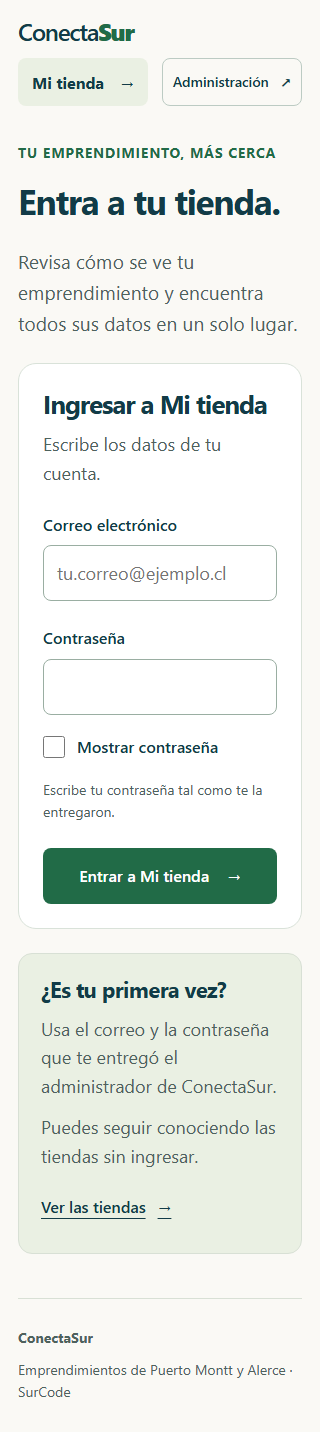
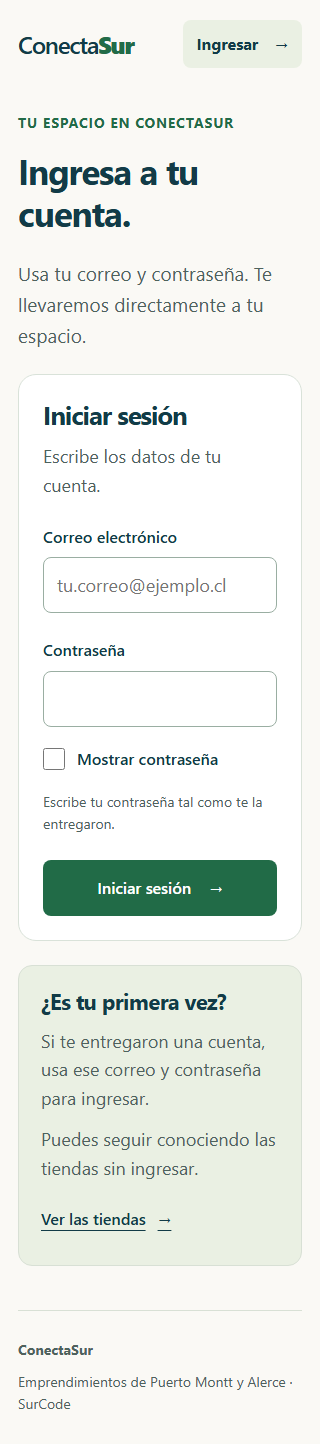
Acceso único

diff --git a/web/src/entrepreneur-access.js b/web/src/entrepreneur-access.js
@@ -3,44 +3,45 @@ import { publicShell, shopLogo, wireShopImages, escapeHtml as escape } from './p
 function messageFor(error) {
   if (error.code === 'account_inactive') return 'Tu cuenta está desactivada o no tiene acceso. Consulta al administrador de ConectaSur.';
   if (error.code === 'shop_not_assigned') return 'Tu cuenta aún no tiene una tienda disponible. Pide al administrador que revise la asignación.';
-  if (error.code === 'entrepreneur_required') return 'Para entrar a Mi tienda necesitas una cuenta de emprendedora. Las cuentas administradoras ingresan desde Administración.';
+  if (error.code === 'entrepreneur_required') return 'Esta cuenta no tiene acceso a una tienda ni a la administración. Puedes seguir conociendo las tiendas sin ingresar.';
   if (['invalid_credentials', 'invalid_grant', 'user_not_found'].includes(error.code) || error.status === 400) return 'El correo o la contraseña no coinciden. Revísalos y vuelve a intentarlo.';
   return 'No pudimos comprobar el acceso. Revisa tu conexión y vuelve a intentarlo.';
 }
 
 // Una instancia por ruta: al salir se cancelan los observadores y se ignoran respuestas tardías.
-export function showEntrepreneurAccess(app, db, isCurrent = () => true) {
+export function showAccountAccess(app, db, isCurrent = () => true, showAdmin) {
   let stopped = false;
   let mode = 'loading';
   let busy = false;
   let checking = false;
   const events = new AbortController();
   const alive = () => !stopped && isCurrent();
-  document.title = 'Mi tienda | ConectaSur';
+  document.title = 'Ingresar | ConectaSur';
 
   function loading(text = 'Comprobando tu sesión…') {
-    app.innerHTML = publicShell(`<section class="owner-state"><p class="public-eyebrow">Mi tienda</p><p role="status">${escape(text)}</p></section>`);
+    app.innerHTML = publicShell(`<section class="owner-state"><p class="public-eyebrow">Tu cuenta en ConectaSur</p><p role="status">${escape(text)}</p></section>`);
   }
 
   function login(message = '', error = false) {
     if (!alive()) return;
     mode = 'login';
     busy = false;
+    document.title = 'Ingresar | ConectaSur';
     app.innerHTML = publicShell(`<section class="owner-access" aria-labelledby="owner-title">
-      <div class="owner-intro"><p class="public-eyebrow">Tu emprendimiento, más cerca</p><h1 id="owner-title" tabindex="-1">Entra a tu tienda.</h1>
-        <p>Revisa cómo se ve tu emprendimiento y encuentra todos sus datos en un solo lugar.</p>
+      <div class="owner-intro"><p class="public-eyebrow">Tu espacio en ConectaSur</p><h1 id="owner-title" tabindex="-1">Ingresa a tu cuenta.</h1>
+        <p>Usa tu correo y contraseña. Te llevaremos directamente a tu espacio.</p>
       </div>
-      <div class="owner-login-card"><h2>Ingresar a Mi tienda</h2><p>Escribe los datos de tu cuenta.</p>
+      <div class="owner-login-card"><h2>Iniciar sesión</h2><p>Escribe los datos de tu cuenta.</p>
         <form id="owner-login-form">
           <label for="owner-email">Correo electrónico</label><input id="owner-email" type="email" autocomplete="username" inputmode="email" autocapitalize="none" spellcheck="false" maxlength="254" required placeholder="tu.correo@ejemplo.cl">
           <label for="owner-password">Contraseña</label><input id="owner-password" type="password" autocomplete="current-password" required aria-describedby="owner-password-help">
           <label class="owner-show-password"><input id="owner-show-password" type="checkbox">Mostrar contraseña</label>
           <p id="owner-password-help" class="owner-hint">Escribe tu contraseña tal como te la entregaron.</p>
           <p id="owner-access-status" class="owner-status${error ? ' owner-error' : ''}" role="${error ? 'alert' : 'status'}">${escape(message)}</p>
-          <button class="public-primary" type="submit">Entrar a Mi tienda <span aria-hidden="true">→</span></button>
+          <button class="public-primary" type="submit">Iniciar sesión <span aria-hidden="true">→</span></button>
         </form>
       </div>
-      <aside class="owner-help"><h2>¿Es tu primera vez?</h2><p>Usa el correo y la contraseña que te entregó el administrador de ConectaSur.</p><p>Puedes seguir conociendo las tiendas sin ingresar.</p><a class="public-text-link" href="#inicio">Ver las tiendas <span aria-hidden="true">→</span></a></aside>
+      <aside class="owner-help"><h2>¿Es tu primera vez?</h2><p>Si te entregaron una cuenta, usa ese correo y contraseña para ingresar.</p><p>Puedes seguir conociendo las tiendas sin ingresar.</p><a class="public-text-link" href="#inicio">Ver las tiendas <span aria-hidden="true">→</span></a></aside>
     </section>`);
     app.querySelector('#owner-title').focus({ preventScroll: true });
     const form = app.querySelector('#owner-login-form');
@@ -65,11 +66,7 @@ export function showEntrepreneurAccess(app, db, isCurrent = () => true) {
         password.value = '';
         password.type = 'password';
         reveal.checked = false;
-        if (user.role !== 'emprendedora') {
-          await db.logout();
-          throw { code: 'entrepreneur_required' };
-        }
-        await loadHome();
+        await openAccount(user);
       } catch (error) {
         if (!alive() || !form.isConnected) return;
         status.textContent = messageFor(error);
@@ -111,6 +108,7 @@ export function showEntrepreneurAccess(app, db, isCurrent = () => true) {
   function home({ user, shop }) {
     if (!alive()) return;
     mode = 'home';
+    document.title = 'Mi tienda | ConectaSur';
     app.innerHTML = publicShell(`<section class="owner-home" aria-labelledby="owner-home-title">
       <div class="owner-topbar"><a class="public-back" href="#inicio">← Volver a las tiendas</a><button id="owner-logout" class="owner-secondary">Cerrar sesión</button></div>
       <div class="owner-welcome"><div><p class="public-eyebrow">Mi espacio en ConectaSur</p><h1 id="owner-home-title" tabindex="-1">Esta es tu tienda.</h1><p>Consulta tus datos y revisa cómo te encuentra tu comunidad.</p></div><span class="owner-session-state">Sesión iniciada</span></div>
@@ -125,6 +123,20 @@ export function showEntrepreneurAccess(app, db, isCurrent = () => true) {
     app.querySelector('#owner-home-title').focus({ preventScroll: true });
     app.querySelector('#owner-logout').addEventListener('click', logout);
     app.querySelector('#owner-refresh').addEventListener('click', () => loadHome());
+  }
+
+  async function openAccount(user) {
+    if (!alive()) return;
+    if (user.role === 'admin') {
+      mode = 'admin';
+      document.title = 'Administración | ConectaSur';
+      await showAdmin(user, logout);
+    } else if (user.role === 'emprendedora') {
+      await loadHome();
+    } else {
+      await db.logout();
+      login(messageFor({ code: 'entrepreneur_required' }), true);
+    }
   }
 
   async function loadHome() {
@@ -159,8 +171,7 @@ export function showEntrepreneurAccess(app, db, isCurrent = () => true) {
       const user = await db.currentSession();
       if (!alive()) return;
       if (!user) login();
-      else if (user.role !== 'emprendedora') login(messageFor({ code: 'entrepreneur_required' }), true);
-      else await loadHome();
+      else await openAccount(user);
     } catch (error) {
       if (!alive()) return;
       if (error.code === 'account_inactive') login(messageFor(error), true);

diff --git a/web/src/main.js b/web/src/main.js
@@ -3,7 +3,7 @@ import './style.css';
 import config from '../supabase-config.js';
 import { createDataLayer } from '../supabase-data.js';
 import { showPublicShops, showPublicShop } from './public-shops.js';
-import { showEntrepreneurAccess } from './entrepreneur-access.js';
+import { showAccountAccess } from './entrepreneur-access.js';
 
 const app = document.querySelector('#app');
 const db = createDataLayer(config);
@@ -37,69 +37,7 @@ function mostrarMensaje(texto, error = false) {
   mensaje.className = error ? 'mensaje error' : 'mensaje';
 }
 
-function mostrarLogin() {
-  app.innerHTML = `
-    <main class="login-container">
-      <section class="login-card">
-        <h1>ConectaSur</h1>
-        <p>Panel de administración</p>
-        <a class="public-return" href="#inicio">← Volver a las tiendas</a>
-
-        <form id="login-form">
-          <label for="email">Correo electrónico</label>
-          <input id="email" type="email" required
-            autocomplete="username"
-            placeholder="Correo de administrador">
-
-          <label for="password">Contraseña</label>
-          <input id="password" type="password" required
-            autocomplete="current-password"
-            placeholder="Tu contraseña">
-
-          <button type="submit">Iniciar sesión</button>
-          <p id="mensaje"></p>
-        </form>
-      </section>
-    </main>`;
-
-  document.querySelector('#login-form')
-    .addEventListener('submit', async e => {
-      e.preventDefault();
-
-      const mensaje = document.querySelector('#mensaje');
-      const boton = e.currentTarget.querySelector(
-        'button[type="submit"]'
-      );
-
-      boton.disabled = true;
-      mensaje.textContent = 'Comprobando acceso...';
-
-      try {
-        const usuario = await db.login(
-          document.querySelector('#email').value,
-          document.querySelector('#password').value
-        );
-
-        if (!mensaje.isConnected) return;
-
-        if (usuario.role !== 'admin') {
-          await db.logout();
-          mensaje.textContent =
-            'Esta cuenta no tiene permisos de administrador.';
-          return;
-        }
-
-        usuarioActual = usuario;
-        await mostrarPanel();
-      } catch (error) {
-        mensaje.textContent = error.message;
-      } finally {
-        if (boton.isConnected) boton.disabled = false;
-      }
-    });
-}
-
-async function mostrarPanel() {
+async function mostrarPanel(logout) {
   app.innerHTML = `
     <div class="dashboard">
       <aside class="sidebar">
@@ -137,14 +75,7 @@ async function mostrarPanel() {
     });
   });
 
-  document.querySelector('#logout').addEventListener(
-    'click',
-    async () => {
-      await db.logout();
-      usuarioActual = null;
-      mostrarLogin();
-    }
-  );
+  document.querySelector('#logout').addEventListener('click', logout);
 
   await abrirSeccion('inicio');
 }
@@ -1038,41 +969,31 @@ async function iniciar() {
   const isCurrent = () => version === navigationVersion;
   const route = window.location.hash;
 
-  if (route === '#mi-tienda') {
+  // Los enlaces anteriores siguen abriendo el mismo acceso; el rol viene del backend.
+  if (['#ingresar', '#mi-tienda', '#administracion'].includes(route)) {
     usuarioActual = null;
-    seccionActual = 'mi-tienda';
-    stopOwnerScreen = showEntrepreneurAccess(app, db, isCurrent);
+    seccionActual = 'cuenta';
+    stopOwnerScreen = showAccountAccess(app, db, isCurrent, async (user, logout) => {
+      if (!isCurrent()) return;
+      usuarioActual = user;
+      await mostrarPanel(async () => {
+        usuarioActual = null;
+        seccionActual = 'cuenta';
+        await logout();
+      });
+    });
     return;
   }
 
-  if (route !== '#administracion') {
-    usuarioActual = null;
-    seccionActual = 'publica';
-    if (route.startsWith('#tienda/')) {
-      let id;
-      try { id = decodeURIComponent(route.slice('#tienda/'.length)); }
-      catch { id = ''; }
-      await showPublicShop(app, db, id, isCurrent);
-    } else {
-      await showPublicShops(app, db, isCurrent);
-    }
-    return;
-  }
-
-  document.title = 'ConectaSur | Administración';
-  app.innerHTML = '<main class="login-container"><p class="login-loading" role="status">Comprobando acceso…</p></main>';
-  try {
-    const usuario = await db.currentSession();
-    if (!isCurrent()) return;
-
-    if (usuario?.role === 'admin') {
-      usuarioActual = usuario;
-      await mostrarPanel();
-    } else {
-      mostrarLogin();
-    }
-  } catch {
-    if (isCurrent()) mostrarLogin();
+  usuarioActual = null;
+  seccionActual = 'publica';
+  if (route.startsWith('#tienda/')) {
+    let id;
+    try { id = decodeURIComponent(route.slice('#tienda/'.length)); }
+    catch { id = ''; }
+    await showPublicShop(app, db, id, isCurrent);
+  } else {
+    await showPublicShops(app, db, isCurrent);
   }
 }
 

diff --git a/web/src/public-shops.js b/web/src/public-shops.js
@@ -42,8 +42,7 @@ function shell(content) {
     <header class="public-header">
       <a class="public-brand" href="#inicio" aria-label="ConectaSur, inicio">Conecta<span>Sur</span></a>
       <nav class="public-navigation" aria-label="Acceso a tu cuenta">
-        <a class="public-owner-link" href="#mi-tienda">Mi tienda <span aria-hidden="true">→</span></a>
-        <a class="public-admin" href="#administracion">Administración <span aria-hidden="true">↗</span></a>
+        <a class="public-owner-link" href="#ingresar">Ingresar <span aria-hidden="true">→</span></a>
       </nav>
     </header>
     <main id="public-content" tabindex="-1">${content}</main>

diff --git a/web/src/style.css b/web/src/style.css
@@ -367,7 +367,7 @@ button {
 @media (max-width: 650px) {
   .public-header, .public-footer, .public-directory, .public-shop-page, .public-state { width: calc(100% - 36px); }
   .public-header { min-height: 88px; gap: 8px; flex-wrap: wrap; padding-block: 12px; }
-  .public-navigation { justify-content: space-between; width: 100%; gap: 8px; }
+  .public-navigation { gap: 8px; }
   .public-owner-link { font-size: 1rem; padding-inline: 14px; }
   .public-brand { font-size: 1.5rem; }
   .public-admin { padding: 8px 10px; font-size: .875rem; }

diff --git a/docs/entrega-4/acceso-emprendedoras.md b/docs/entrega-4/acceso-emprendedoras.md
@@ -1,10 +1,12 @@
-# Bloque 2: acceso de emprendedoras en la web
+# Bloque 2: acceso de cuentas en la web
 
 Revisión del miércoles 4 de noviembre de 2026. Continúa la portada y ficha pública del bloque 1.
 
 ## Qué se implementa
 
-La cabecera pública incorpora Mi tienda (#mi-tienda). La emprendedora ingresa con el correo y la contraseña creados por el administrador, consulta la tienda asignada, abre su ficha pública, vuelve a consultar la información y cierra su sesión. Recargar la pestaña conserva una sesión válida; después de salir, recargar o usar Atrás no vuelve a abrir la vista privada.
+La cabecera pública ofrece un solo acceso, Ingresar (#ingresar). Después de validar correo y contraseña, se consulta el perfil activo en Supabase: admin abre el panel de plataforma y emprendedora abre su tienda. No se reconoce al administrador por una coincidencia de texto en el correo ni se le permite escoger su rol.
+
+La emprendedora consulta la tienda asignada, abre su ficha pública, vuelve a consultar la información y cierra su sesión. Recargar la pestaña conserva una sesión válida de cualquiera de los dos perfiles; después de salir, recargar o usar Atrás no vuelve a abrir la vista privada. Los enlaces anteriores #mi-tienda y #administracion son alias del mismo acceso: escribirlos no cambia los permisos.
 
 La consulta está limitada al perfil activo, rol emprendedora, tienda asignada y UID de la dueña. No acepta un identificador de otra tienda desde la dirección del navegador. La vista no ofrece administración de plataforma. Una cuenta desactivada no puede ingresar; al actualizar información o volver a enfocar la pestaña también se comprueba su acceso.
 
@@ -12,6 +14,7 @@ La consulta está limitada al perfil activo, rol emprendedora, tienda asignada y
 
 | Ítem | Implementación |
 | --- | --- |
+| W01–W02 | La cuenta administradora utiliza el acceso común y llega directamente a su panel. |
 | W25 | Ingreso web de emprendedora con las credenciales creadas por el administrador. |
 | W26 | Cierre de sesión y retiro de la sesión local. |
 | W09 | Rechazo de cuenta desactivada en el acceso web; incluye comprobación de una sesión ya abierta. |
@@ -26,22 +29,23 @@ Se aplica good-taste-design conservando el diseño del bloque 1 y lo descrito en
 
 Paleta de la web: fondo #FAF9F5, texto #123B47, verde de acción #216B47 y fondo de ayuda #EAF0E3. Se mantiene la familia tipográfica de la web, Segoe UI con alternativa sans-serif. Los controles principales tienen al menos 48 px, foco visible y etiquetas persistentes. Mostrar contraseña es una acción voluntaria y se vuelve a ocultar al terminar un intento de ingreso. En celular el formulario aparece antes del bloque de ayuda para la primera visita.
 
-No se pide un rol al abrir la web pública. Mi tienda y Administración son accesos explícitos y sus pantallas comprueban los permisos; esconder un botón no reemplaza las políticas del backend.
+No se pide un rol al abrir la web pública ni al ingresar. Ingresar lleva al espacio correspondiente a los permisos reales de la cuenta; esconder un botón no reemplaza las políticas del backend.
 
 ## Recorrido de demostración
 
-1. Abrir https://conectasur-dev.web.app y elegir Mi tienda.
+1. Abrir https://conectasur-dev.web.app y elegir Ingresar.
 2. Ingresar con una cuenta ficticia de emprendedora creada en el panel administrativo.
 3. Mostrar el nombre, logo o inicial, descripción, tipo, sector y contacto de esa tienda. Recargar y comprobar que no vuelve a pedir la contraseña.
-4. Abrir Ver mi ficha pública y regresar con Mi tienda. Actualizar información permite volver a consultar los cambios guardados desde Android.
+4. Abrir Ver mi ficha pública y regresar con Ingresar. Actualizar información permite volver a consultar los cambios guardados desde Android.
 5. Cerrar sesión; recargar y comprobar que se pide el acceso de nuevo.
-6. Desactivar la cuenta desde Administración e intentar ingresar: el acceso debe rechazarse. Reactivar la cuenta al finalizar la demostración.
+6. Usar el mismo formulario con una cuenta administradora y mostrar que abre su panel. Recargar, salir y comprobar que el acceso vuelve a pedirse.
+7. Desactivar la cuenta ficticia de emprendedora desde el panel e intentar ingresar con ella: el acceso debe rechazarse. Reactivar la cuenta al finalizar la demostración.
 
 ## Evidencia y límites
 
 security/entrepreneur-access-check.mjs crea una cuenta y tienda ficticias propias mediante el administrador. Comprueba la API real y el recorrido en Chromium; sus resultados y capturas quedan en security/reports/entrepreneur-access/. El correo mostrado en las capturas se sustituye por cuenta-ficticia@ejemplo.cl para no guardar identificadores de fixtures efímeros.
 
-Resultado del 2 de noviembre: 19 comprobaciones aprobadas de este bloque. También se repitieron las 16 comprobaciones de security/public-shops-check.mjs y las 7 pruebas de supabase/test/web.test.js, sin fallos. La compilación web con Vite finalizó correctamente.
+La verificación actual del acceso único se registra en security/reports/entrepreneur-access/verification.json: 21 comprobaciones aprobadas, incluida la apertura automática del panel con una cuenta administradora y que una emprendedora no obtiene ese panel escribiendo la ruta anterior. Se repitieron además las 16 comprobaciones de la ficha pública, sin fallos. La compilación web con Vite finalizó correctamente.
 
 Para repetir: Vite iniciado en el puerto 5174, CONECTASUR_PRIVATE cargado solo en memoria, Playwright/Chromium disponible y node security/entrepreneur-access-check.mjs. PLAYWRIGHT_MODULE permite indicar su instalación; ENTREPRENEUR_ACCESS_URL permite cambiar la URL de prueba. Los fixtures se eliminan al terminar.
 

diff --git a/docs/publicacion-web.md b/docs/publicacion-web.md
@@ -6,7 +6,7 @@ La web puede alojarse en Firebase Hosting mientras Auth, PostgreSQL y Storage co
 2. En web, ejecutar npm ci y npm run build con Node 24.12 o superior.
 3. Ejecutar firebase login con la cuenta que tiene acceso al proyecto conectasur-dev.
 4. Desde la raíz del repositorio, ejecutar firebase deploy --only hosting --project conectasur-dev --config firebase.hosting.json.
-5. Comprobar la portada sin sesión, las fichas de tienda, el acceso de emprendedora desde #mi-tienda y el de administrador desde #administracion, con sus cierres de sesión.
+5. Comprobar la portada sin sesión, las fichas de tienda y el acceso único #ingresar con cuentas de emprendedora y administrador, incluidos sus cierres de sesión.
 
 firebase.hosting.json publica únicamente web/dist y redirige las rutas a index.html. El comando se limita a hosting: no despliega reglas, funciones, Firestore ni Storage. El dominio definitivo se registra después de una publicación comprobada. La URL anterior de Sites se conserva mientras se verifica la nueva.
 
@@ -20,6 +20,6 @@ La publicación previa de Sites queda como alternativa existente; la dirección 
 
 ## Bloque 1 de Entrega 4
 
-La portada publicada muestra tiendas sin pedir una cuenta. Las fichas abren mediante #tienda/ID y consultan public_shops a través de la capa de datos. El panel se abre desde Administración (#administracion). La publicación inicial de Sites se conserva como versión anterior; no se actualiza automáticamente con Firebase Hosting.
+La portada publicada muestra tiendas sin pedir una cuenta. Las fichas abren mediante #tienda/ID y consultan public_shops a través de la capa de datos. El panel se abre al usar una cuenta administradora en Ingresar (#ingresar). La publicación inicial de Sites se conserva como versión anterior; no se actualiza automáticamente con Firebase Hosting.
 
-El bloque 2 incorpora Mi tienda (#mi-tienda) para ingreso, consulta y cierre de sesión de emprendedoras. Conserva la portada pública y la administración separadas. Ver docs/entrega-4/acceso-emprendedoras.md.
+El bloque 2 incorpora un acceso común para ingreso y cierre de sesión: la cuenta de emprendedora abre su tienda y la cuenta administradora abre su panel. La portada no ofrece una sección Administración ni un selector de rol. Ver docs/entrega-4/acceso-emprendedoras.md.

diff --git a/README.md b/README.md
@@ -78,9 +78,9 @@ Panel publicado: https://conectasur-dev.web.app
 
 La portada y las fichas de tienda se pueden consultar sin cuenta. Para consultar o modificar datos administrativos se exige el inicio de sesión de administrador de ConectaSur. No incluye contraseñas de demostración.
 
-Revisión de Entrega 4 del 4 de noviembre: [bloque 1, ficha pública de tienda](docs/entrega-4/ficha-publica.md). La portada abre en la URL principal; cada ficha tiene un enlace `#tienda/ID`. El panel continúa en `#administracion`.
+Revisión de Entrega 4 del 4 de noviembre: [bloque 1, ficha pública de tienda](docs/entrega-4/ficha-publica.md). La portada abre en la URL principal; cada ficha tiene un enlace `#tienda/ID`. El único acceso de cuenta es **Ingresar** (`#ingresar`): el rol validado en Supabase abre la tienda propia o el panel administrativo.
 
-[Bloque 2, acceso de emprendedoras](docs/entrega-4/acceso-emprendedoras.md): `#mi-tienda` permite ingresar con las credenciales creadas por el administrador, consultar la tienda propia y cerrar sesión. La edición de su ficha se realiza en Android.
+[Bloque 2, acceso de cuentas](docs/entrega-4/acceso-emprendedoras.md): la emprendedora ingresa con las credenciales creadas por el administrador, consulta la tienda propia y cierra sesión. La edición de su ficha se realiza en Android. Los enlaces anteriores `#mi-tienda` y `#administracion` abren el mismo acceso y respetan el rol de la cuenta.
 
 En Android: Inicio → Mi tienda → ingresar con una cuenta de emprendedora → Mis productos / Registrar una venta / Historial de ventas. Las preferencias de productos e historial se abren desde Mis productos. La app abre el catálogo público sin preguntar un rol ni pedir huella al inicio.
 
